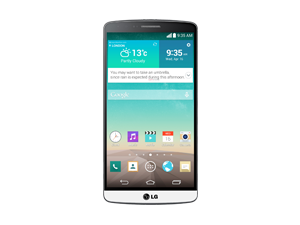
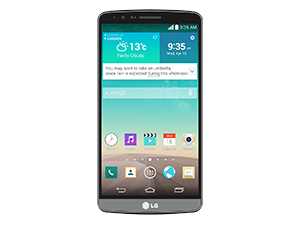
added 3 new phones and remade old phone images

Changed region(s): [[0.3, 0.0311, 0.69, 0.9644]]

diff --git a/src/js/phones.js b/src/js/phones.js
@@ -4,48 +4,72 @@ var phones = [
     "id": "0",
     "name": "Nexus 5",
     "model": "Nexus-5",
-    "url": "./images/Nexus5/Nexus5.png",
-    "thumbUrl": "./images/Nexus5/nexus5thumb.png"
+    "url": "./images/nexus5/nexus5.png",
+    "thumbUrl": "./images/nexus5/nexus5thumb.png"
   },
   // nexus 6
   {
     "id": "1",
     "name": "Nexus 6",
     "model": "Nexus-6",
-    "url": "./images/Nexus6/Nexus6.png",
-    "thumbUrl": "./images/Nexus6/nexus6thumb.png"
+    "url": "./images/nexus6/nexus6.png",
+    "thumbUrl": "./images/nexus6/nexus6thumb.png"
   },
   // Nexus 6p
   {
     "id": "2",
     "name": "Nexus 6P",
     "model": "Nexus-6p",
-    "url": "./images/Nexus6p/Nexus6p.png",
-    "thumbUrl": "./images/Nexus6p/Nexus6pthumb.png"
+    "url": "./images/nexus6p/nexus6p.png",
+    "thumbUrl": "./images/nexus6p/nexus6pthumb.png"
   },
   // nexus 5x
   {
     "id": "3",
     "name": "Nexus 5x",
     "model": "Nexus-5x",
-    "url": "./images/Nexus5x/Nexus5x.png",
-    "thumbUrl": "./images/Nexus5x/Nexus5xthumb.png"
+    "url": "./images/nexus5x/nexus5x.png",
+    "thumbUrl": "./images/nexus5x/nexus5xthumb.png"
   },
   // LG G3
   {
     "id": "4",
     "name": "LG G3",
     "model": "LGG3",
-    "url": "./images/LGG3/LGG3.png",
-    "thumbUrl": "./images/LGG3/LGG3thumb.png"
+    "url": "./images/lgg3/lgg3.png",
+    "thumbUrl": "./images/lgg3/lgg3thumb.png"
+  },
+  // Galaxy S6
+  {
+    "id": "5",
+    "name": "Galaxy S6",
+    "model": "Galaxy-S6",
+    "url": "./images/galaxys6/galaxys6.png",
+    "thumbUrl": "./images/galaxys6/galaxys6thumb.png"
+  },
+  // Galaxy S7
+  {
+    "id": "6",
+    "name": "Galaxy S7",
+    "model": "Galaxy-S7",
+    "url": "./images/galaxys7/galaxys7.png",
+    "thumbUrl": "./images/galaxys7/galaxys7thumb.png"
+  },
+  // Note 5
+  {
+    "id": "7",
+    "name": "Note 5",
+    "model": "Note-5",
+    "url": "./images/note5/note5.png",
+    "thumbUrl": "./images/note5/note5thumb.png"
   },
   // iPhone 6s/6
   {
-    "id": "5",
+    "id": "8",
     "name": "iPhone 6s",
     "model": "iPhone-6s",
-    "url": "./images/iPhone6/iphone6.png",
-    "thumbUrl": "./images/iPhone6/iPhone6thumb.png"
+    "url": "./images/iphone6/iphone6white.png",
+    "thumbUrl": "./images/iphone6/iphone6whitethumb.png"
   }];
 
   export { phones }

diff --git a/src/sass/main.scss b/src/sass/main.scss
@@ -126,14 +126,14 @@ border-radius: 5px;
   width: 22%;
   position: absolute;
   right: 0px;
-  top: 50px;
+  top: 57px;
   height: 840px;
 }
 
 .device-box {
   width: 22%;
   position: absolute;
-  top: 50px;
+  top: 57px;
   height: 840px;
 }
 
@@ -258,19 +258,19 @@ button.buttonGrid {
 
 .Nexus-6 {
   position: absolute;
-  width: 295px;
-  height: 563px;
-  left: 90px;
-  bottom: 116px;
+  width: 314px;
+  height: 558px;
+  left: 81px;
+  bottom: 117px;
   z-index: 1;
 }
 
 .Nexus-6p {
   position: absolute;
-  width: 299px;
-  height: 531px;
-  left: 78px;
-  bottom: 134px;
+  width: 294px;
+  height: 521px;
+  left: 89px;
+  bottom: 140px;
   z-index: 1;
 }
 
@@ -292,6 +292,33 @@ button.buttonGrid {
   z-index: 1;
 }
 .LGG3 {
+  position: absolute;
+  width: 310px;
+  height: 551px;
+  left: 82px;
+  bottom: 133px;
+  z-index: 1;
+}
+
+.Galaxy-S6 {
+  position: absolute;
+  width: 310px;
+  height: 551px;
+  left: 82px;
+  bottom: 133px;
+  z-index: 1;
+}
+
+.Galaxy-S7 {
+  position: absolute;
+  width: 310px;
+  height: 551px;
+  left: 82px;
+  bottom: 133px;
+  z-index: 1;
+}
+
+.Note-5 {
   position: absolute;
   width: 310px;
   height: 551px;
